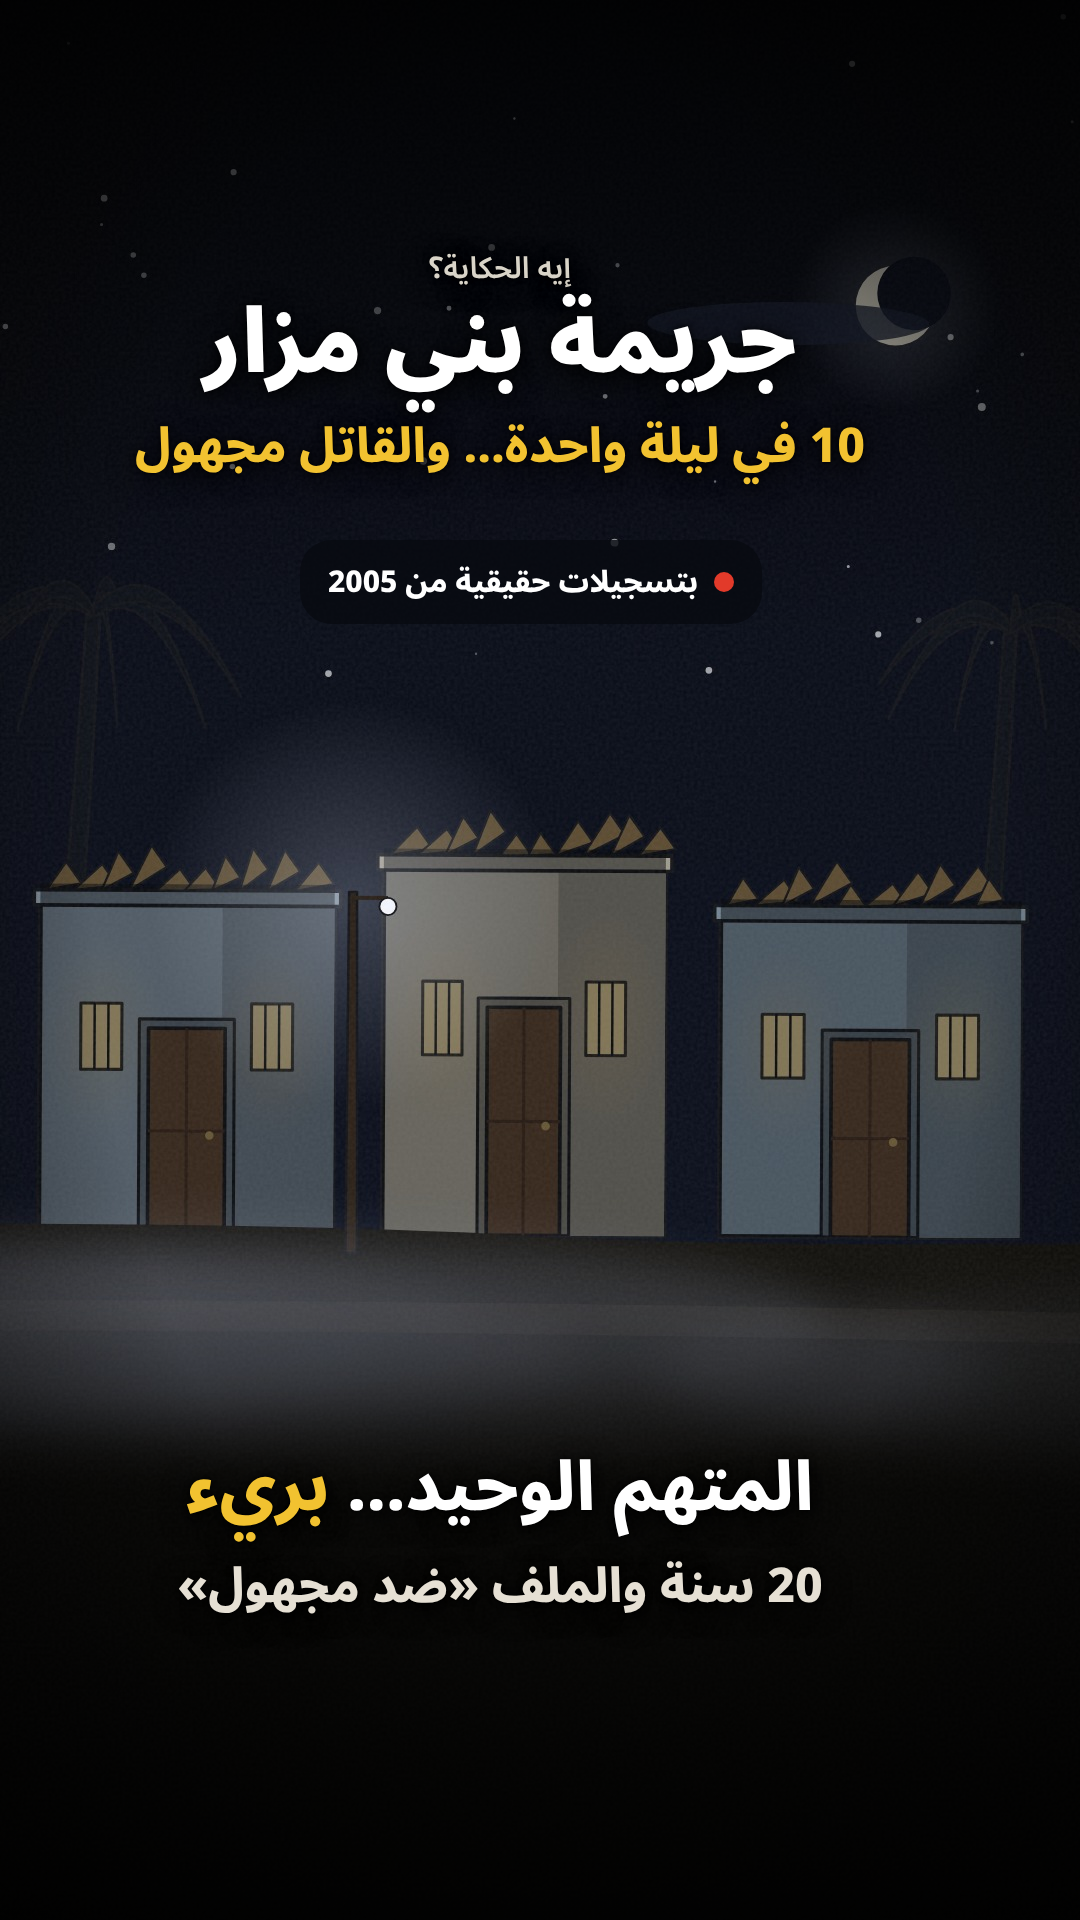
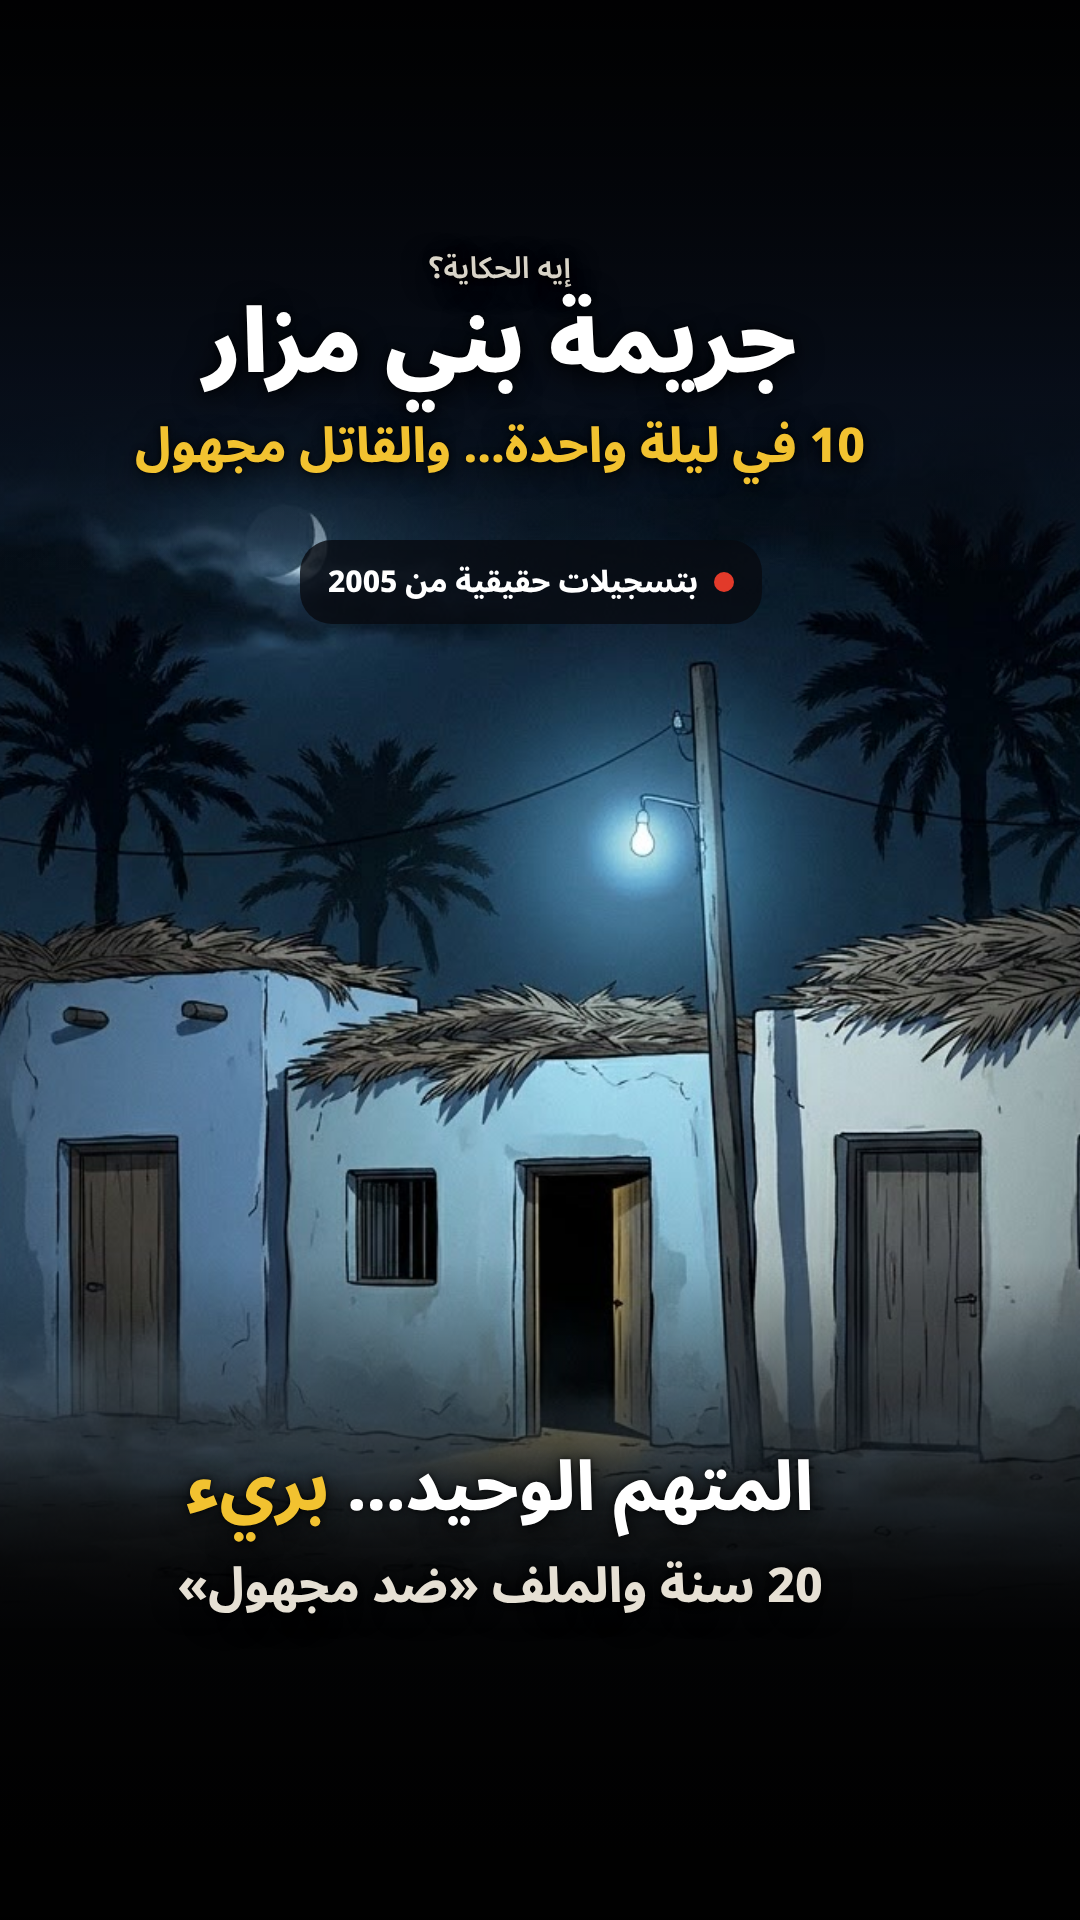
Beni Mazar story: TikTok cover on the user's Gemini painting
Claude-Session: https://claude.ai/code/session_016TN7FLA1G3f3rMAa4Y1qYz

diff --git a/brand/eh-elhekaya/cover-beni-mazar-tiktok.html b/brand/eh-elhekaya/cover-beni-mazar-tiktok.html
@@ -2,11 +2,14 @@
 <html lang="ar" dir="rtl"><head><meta charset="utf-8"><title>TikTok cover — جريمة بني مزار</title>
 <link href="https://fonts.googleapis.com/css2?family=Noto+Sans+Arabic:wght@600;800;900&display=swap" rel="stylesheet">
 <style>
-  /* stand-in art: the film's frame of the three houses at night (shot 5), until the user's Gemini painting arrives;
-     then swap the img src. 540×960 at 2x; text inside the 3:4 crop (y 120–840), away from TikTok's right-hand buttons. */
+  /* the user's Gemini painting (three village houses, one door ajar, a bulb on a pole), letterbox cropped off and
+     blended into a dark sky above and dark ground below. 540×960 at 2x; text inside the 3:4 crop (y 120–840), away from TikTok's right-hand buttons. */
   body { margin: 0; background: #000; }
   .cover { position: relative; width: 540px; height: 960px; overflow: hidden; background: #000; }
-  .art { position: absolute; left: 0; top: 0; width: 540px; height: 960px; object-fit: cover; object-position: 50% 55%; }
+  .art { position: absolute; left: -36px; top: 196px; width: 612px; height: 618px; object-fit: cover; }
+  .bg { position: absolute; inset: 0; background: linear-gradient(#05070c 0, #0b1424 196px, #0b1424 230px, #0a0c10 760px, #050505 960px); }
+  .eT { position: absolute; left: 0; right: 0; top: 196px; height: 90px; background: linear-gradient(#0b1424, rgba(11,20,36,0)); }
+  .eB { position: absolute; left: 0; right: 0; top: 724px; height: 90px; background: linear-gradient(rgba(10,12,16,0), #0a0c10); }
   .fT { position: absolute; left: 0; right: 0; top: 0; height: 320px; background: linear-gradient(rgba(0,0,0,.85), rgba(0,0,0,0)); }
   .fB { position: absolute; left: 0; right: 0; bottom: 0; height: 330px; background: linear-gradient(rgba(0,0,0,0), rgba(0,0,0,.6) 35%, rgba(0,0,0,.9)); }
   .t { position: absolute; left: 24px; right: 64px; margin: 0; text-align: center; text-shadow: 0 3px 14px rgba(0,0,0,.9), 0 0 3px rgba(0,0,0,.8); }
@@ -14,7 +17,7 @@
   .rec i { display: inline-block; width: 10px; height: 10px; border-radius: 50%; background: #e23a2a; margin-left: 8px; }
 </style></head><body>
 <div class="cover">
-  <img class="art" src="beni-mazar-cover-art.jpg">
+  <div class="bg"></div><img class="art" src="beni-mazar-cover-art.jpg"><div class="eT"></div><div class="eB"></div>
   <div class="fT"></div><div class="fB"></div>
   <p class="t" style="top:118px;font:600 15px 'Noto Sans Arabic';color:#d9d4c8">إيه الحكاية؟</p>
   <p class="t" style="top:146px;font:900 44px/1.2 'Noto Sans Arabic';color:#fff">جريمة بني مزار</p>
